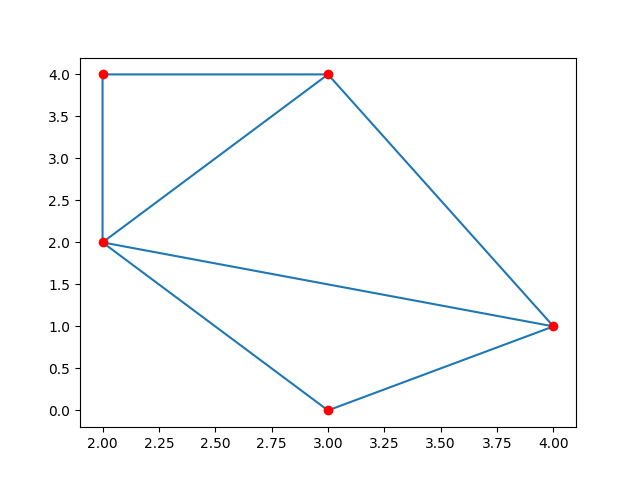
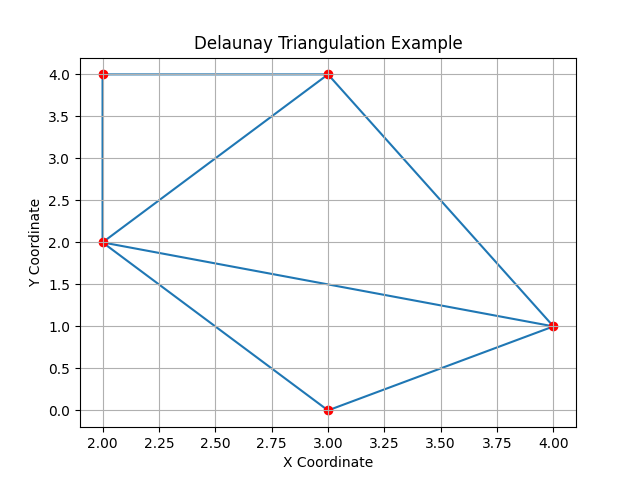
Trinangilar pic commit

diff --git a/Spatial_data.py b/Spatial_data.py
@@ -26,5 +26,14 @@ simplices=Delaunay(points).simplices
 
 plt.triplot(points[:,0],points[:,1],simplices)
 plt.scatter(points[:,0],points[:,1],color='r')
+
+
+plt.title("Delaunay Triangulation Example")
+plt.xlabel("X Coordinate")
+plt.ylabel("Y Coordinate")
+plt.grid(True)
+
 plt.savefig("Triangulation.png",format='png')
 #plt.show()
+
+
